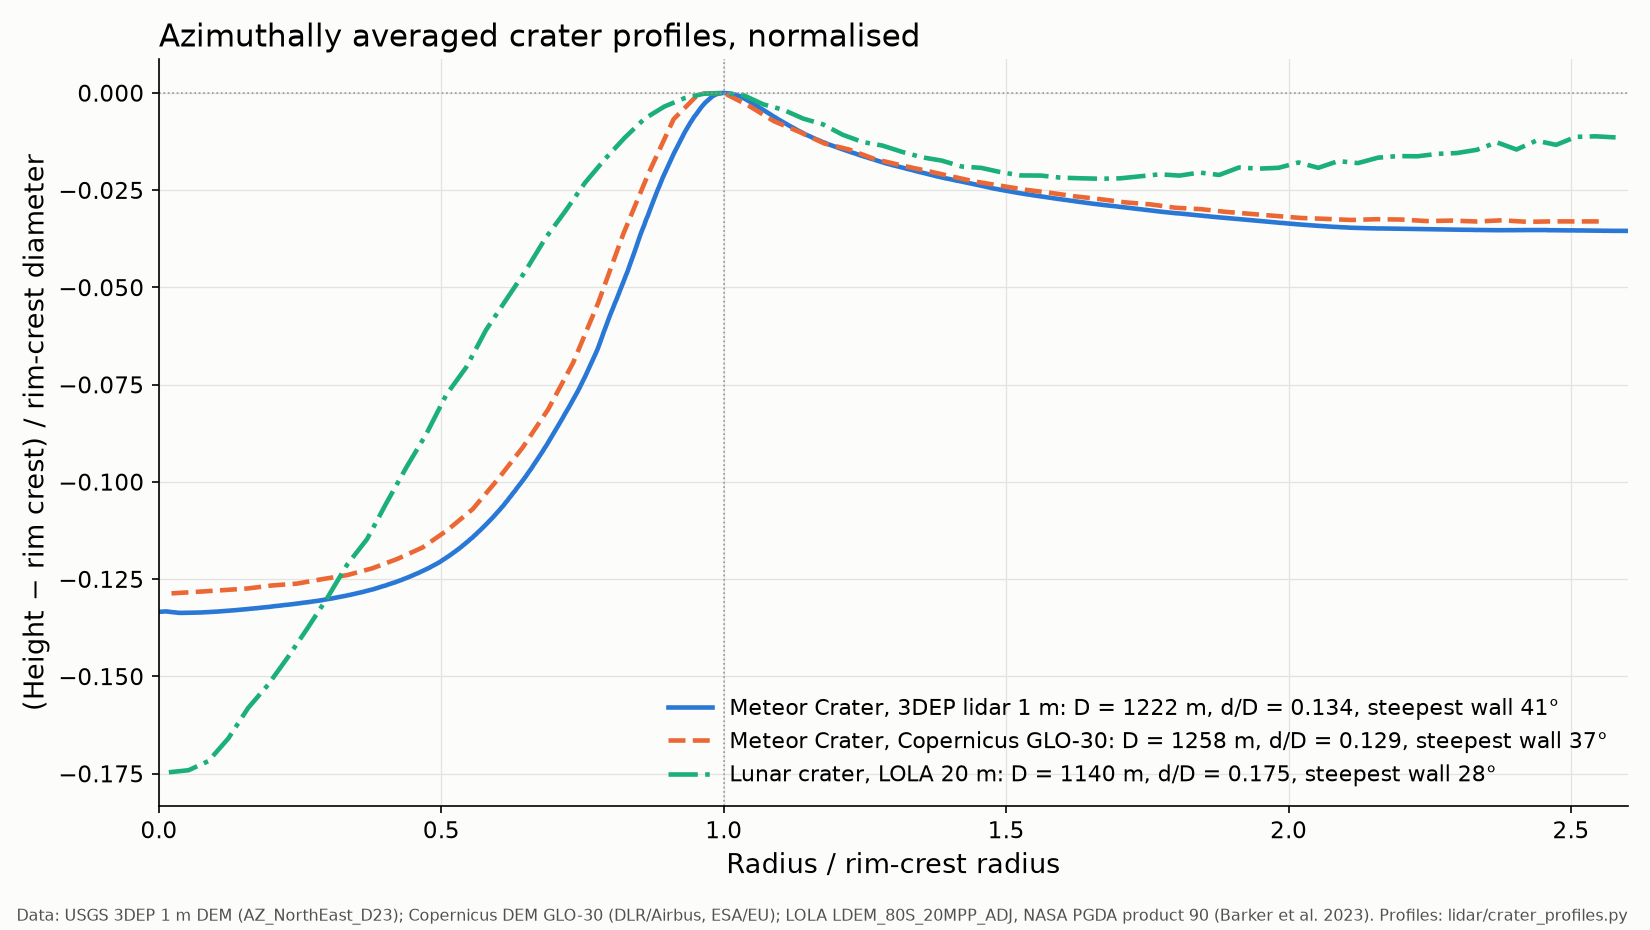
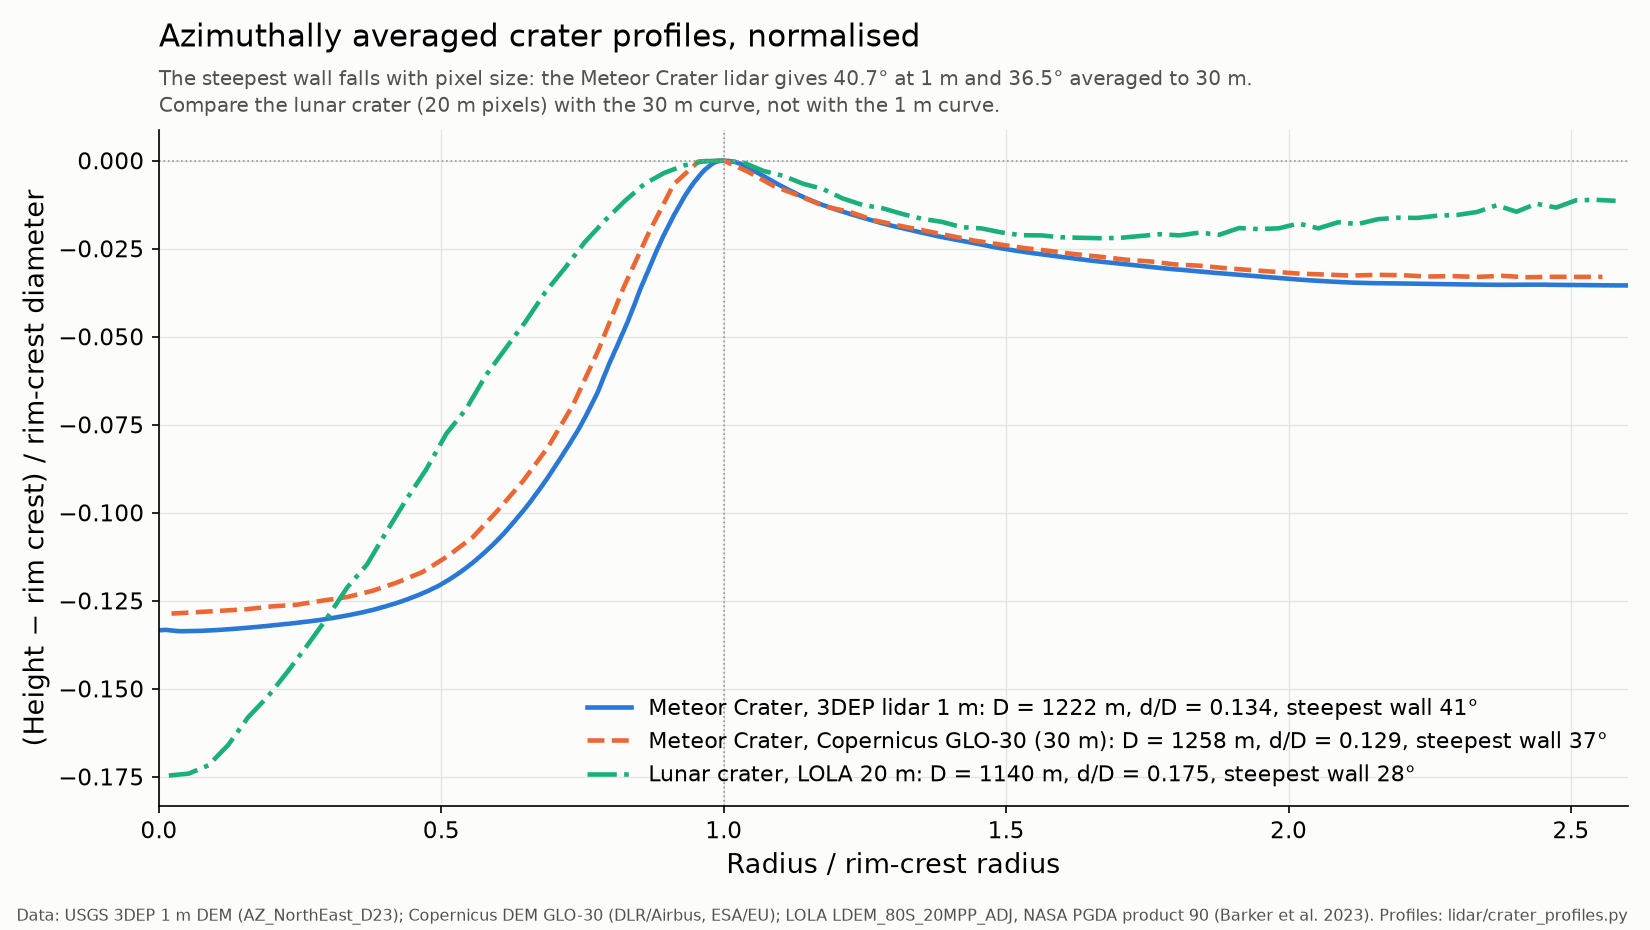
J10 follow-up: crater close-up reads nothing from scratch/, fails loudly, and the figure says which wall slopes are comparable
- lidar/crater_profiles.py took two Copernicus tiles and the 30 m lunar grid
  from scratch/ (not in git), so three of its four parts failed on a fresh
  clone while the script still exited 0. The tiles now come from the pipeline
  cache or an HTTP range read of the public file, the lunar grid from
  pipeline.io_moon.load_moon_window; a failed part gives a non-zero exit code.
- The overlay put the lunar crater's steepest wall (27.9 deg at 20 m pixels)
  next to Meteor Crater's 40.7 deg at 1 m. The figure and the JSON now say
  that the comparable value is Meteor Crater at 30 m (36.5 deg).
- Checked: the three caches rebuilt through the new code are identical to
  those of the first run, the crater search returns the same candidates, an
  HTTP read equals the local read, every measured number in the JSON is
  unchanged, the Morasko figure is byte-identical; 35 tests pass.

diff --git a/lidar/crater_profiles.py b/lidar/crater_profiles.py
@@ -16,6 +16,8 @@ Run from the repo root:
 
 Outputs: data/validation/crater_profiles.json, docs/figures/crater_profile_overlay.png,
 docs/figures/morasko_1m_vs_30m.png. Raw windows and caches go to data/raw/lidar/ (git-ignored).
+Inputs that the pipeline also uses come from its caches (data/raw/copdem30/, data/raw/moon/) and are
+fetched when missing; nothing is read from scratch/. The script exits with an error if a part fails.
 
 Sources (data):
   - USGS 3D Elevation Program (3DEP) 1 m DEM, tile USGS_1M_12_x49y388_AZ_NorthEast_D23, found with
@@ -41,6 +43,7 @@ from __future__ import annotations
 import argparse
 import json
 import math
+import os
 import sys
 import time
 import urllib.request
@@ -49,7 +52,7 @@ from pathlib import Path
 import numpy as np
 
 sys.path.insert(0, str(Path(__file__).resolve().parents[1]))
-from pipeline import paths  # noqa: E402
+from pipeline import io_earth, io_moon, paths  # noqa: E402
 
 ROOT = Path(paths.ROOT)
 RAW = Path(paths.RAW_LIDAR)
@@ -62,11 +65,16 @@ URL_TNM_QUERY = ("https://tnmaccess.nationalmap.gov/api/v1/products?datasets=Dig
                  "%20(DEM)%201%20meter&bbox=-111.04,35.015,-111.005,35.04")
 URL_LDEM = "https://pgda.gsfc.nasa.gov/data/LOLA_20mpp/LDEM_80S_20MPP_ADJ.TIF"
 URL_WCS = "https://mapy.geoportal.gov.pl/wss/service/PZGIK/NMT/GRID1/WCS/DigitalTerrainModelFormatTIFF"
-GLO30_AZ = ROOT / "scratch" / "data" / "copdem30" / "Copernicus_DSM_COG_10_N35_00_W112_00_DEM.tif"
-GLO30_PL = ROOT / "scratch" / "data" / "copdem30" / "Copernicus_DSM_COG_10_N52_00_E016_00_DEM.tif"
+GLO30_TILE_AZ, GLO30_TILE_PL = "N35W112", "N52E016"
 URL_GLO30_AZ = "https://copernicus-dem-30m.s3.amazonaws.com/Copernicus_DSM_COG_10_N35_00_W112_00_DEM/Copernicus_DSM_COG_10_N35_00_W112_00_DEM.tif"
 URL_GLO30_PL = "https://copernicus-dem-30m.s3.amazonaws.com/Copernicus_DSM_COG_10_N52_00_E016_00_DEM/Copernicus_DSM_COG_10_N52_00_E016_00_DEM.tif"
-MOON_NPY = ROOT / "scratch" / "data" / "ldem_pole_160km_30m.npy"
+MOON_SEARCH_HALF_M = 80000.0   # crater search window: +-80 km around the pole, 30 m copy (pipeline.io_moon cache)
+
+
+def glo30_source(tile, url):
+    """The Copernicus tile of the pipeline cache if it is there, else the public file read by HTTP range requests."""
+    p = io_earth.tile_path(tile, paths.RAW)
+    return p if os.path.exists(p) else "/vsicurl/" + url
 
 # First guesses only; every centre is refined from the data.
 METEOR_GUESS_LATLON = (35.027, -111.022)
@@ -361,7 +369,7 @@ def part_b(res, prof):
     if "a_meteor_3dep_1m" not in res:
         part_a(res, prof)
     a = res["a_meteor_3dep_1m"]
-    z, X, Y, dx, dy, tr, lat, lon = load_glo30_projected(GLO30_AZ, meteor_bounds_ll(), UTM12,
+    z, X, Y, dx, dy, tr, lat, lon = load_glo30_projected(glo30_source(GLO30_TILE_AZ, URL_GLO30_AZ), meteor_bounds_ll(), UTM12,
                                                          RAW / "meteor_glo30_window.npz")
     pix = math.sqrt(dx * dy)
     log(f"  GLO-30 window {z.shape}, pixel {dx:.1f} x {dy:.1f} m")
@@ -414,7 +422,7 @@ def part_b(res, prof):
     keys = ["rim_crest_diameter_m", "depth_m", "rim_height_m", "depth_to_diameter",
             "max_wall_slope_profile_deg", "wall_slope_pixel_p95_deg", "wall_slope_pixel_max_deg"]
     res["b_meteor_glo30"] = {
-        "dataset": "Copernicus DEM GLO-30 (DSM, 1 arc-second)", "url": URL_GLO30_AZ, "local_file": str(GLO30_AZ.relative_to(ROOT)),
+        "dataset": "Copernicus DEM GLO-30 (DSM, 1 arc-second)", "url": URL_GLO30_AZ,
         "crs": "EPSG:4326 lon/lat, heights EGM2008; pixel centres transformed to EPSG:26912 for distances",
         "pixel_spacing_m": [round(dx, 2), round(dy, 2)], **g}
     res["b_meteor_lidar_avg30m"] = {"dataset": "3DEP 1 m lidar block-averaged to 30 m", **l30}
@@ -430,11 +438,12 @@ MOON_CRS = "+proj=stere +lat_0=-90 +lat_ts=-90 +lon_0=0 +x_0=0 +y_0=0 +R=1737400
 MOON_LL = "+proj=longlat +R=1737400 +no_defs"
 
 
-def moon_search(npy=MOON_NPY, n_cand=2500):
-    """Search the cached 30 m polar window for clean, fresh bowl craters with D = 1-1.5 km."""
+def moon_search(n_cand=2500):
+    """Search the 30 m polar window for clean, fresh bowl craters with D = 1-1.5 km."""
     from scipy.ndimage import gaussian_filter
     from skimage.feature import peak_local_max
-    z = np.load(npy).astype(np.float64)
+    h = MOON_SEARCH_HALF_M
+    z = io_moon.load_moon_window(-h, -h, h, h, res_m=30.0, raw_dir=paths.RAW, log=log).astype(np.float64)
     H, W = z.shape
     px = 30.0
     zf = np.where(np.isfinite(z), z, np.nanmedian(z))
@@ -507,6 +516,14 @@ def part_c(res, prof):
                              if k in ("centre_xy_m", "rim_crest_diameter_m", "depth_to_diameter", "circ", "tilt_deg", "score")}
                             for c in cands[:5]],
         "read": f"windowed /vsicurl/ read with retries, {z.shape[0]} x {z.shape[1]} px", **m}
+    if "b_meteor_lidar_avg30m" in res and "a_meteor_3dep_1m" in res:
+        key = "max_wall_slope_profile_deg"
+        res["c_wall_slope_at_similar_pixel_size"] = {
+            "moon_lola_20m_deg": m[key], "meteor_lidar_avg30m_deg": res["b_meteor_lidar_avg30m"][key],
+            "meteor_glo30_deg": res["b_meteor_glo30"][key], "meteor_lidar_1m_deg": res["a_meteor_3dep_1m"][key],
+            "note": "The steepest slope of an averaged profile falls with pixel size, so the lunar crater (20 m pixels) "
+                    "is to be compared with Meteor Crater at 30 m, not at 1 m. One crater on each body: an "
+                    "illustration, not a statistic."}
     log("  " + json.dumps({k: v for k, v in m.items() if not k.startswith("_")}))
     overlay_figure(res, prof)
 
@@ -516,7 +533,7 @@ def overlay_figure(res, prof):
     matplotlib.use("Agg")
     import matplotlib.pyplot as plt
     series = [("meteor_1m", "a_meteor_3dep_1m", "Meteor Crater, 3DEP lidar 1 m", "#2a78d6", "-"),
-              ("meteor_glo30", "b_meteor_glo30", "Meteor Crater, Copernicus GLO-30", "#eb6834", "--"),
+              ("meteor_glo30", "b_meteor_glo30", "Meteor Crater, Copernicus GLO-30 (30 m)", "#eb6834", "--"),
               ("moon_20m", "c_moon_lola_20m", "Lunar crater, LOLA 20 m", "#1baf7a", "-.")]
     fig, ax = plt.subplots(figsize=(11, 6.2), dpi=150)
     fig.patch.set_facecolor("#fcfcfb")
@@ -537,7 +554,13 @@ def overlay_figure(res, prof):
     ax.set_xlim(0, 2.6)
     ax.set_xlabel("Radius / rim-crest radius", fontsize=13)
     ax.set_ylabel("(Height − rim crest) / rim-crest diameter", fontsize=13)
-    ax.set_title("Azimuthally averaged crater profiles, normalised", fontsize=15, loc="left")
+    ax.set_title("Azimuthally averaged crater profiles, normalised", fontsize=15, loc="left", pad=40)
+    if "a_meteor_3dep_1m" in res and "b_meteor_lidar_avg30m" in res:
+        key = "max_wall_slope_profile_deg"
+        ax.text(0.0, 1.015, "The steepest wall falls with pixel size: the Meteor Crater lidar gives %.1f° at 1 m and %.1f° averaged to 30 m.\n"
+                "Compare the lunar crater (20 m pixels) with the 30 m curve, not with the 1 m curve."
+                % (res["a_meteor_3dep_1m"][key], res["b_meteor_lidar_avg30m"][key]),
+                transform=ax.transAxes, fontsize=9.5, color="#52514e", va="bottom", linespacing=1.35)
     ax.tick_params(labelsize=11)
     for s in ("top", "right"):
         ax.spines[s].set_visible(False)
@@ -645,7 +668,7 @@ def part_d(res, prof):
     # GLO-30 over the same extent, reprojected onto a 30 m EPSG:2180 grid (bilinear)
     pad = 0.01
     bll = Transformer.from_crs(PL1992, "EPSG:4326", always_xy=True).transform_bounds(*b)
-    zg, trg, _ = read_window(str(GLO30_PL), (bll[0] - pad, bll[1] - pad, bll[2] + pad, bll[3] + pad),
+    zg, trg, _ = read_window(glo30_source(GLO30_TILE_PL, URL_GLO30_PL), (bll[0] - pad, bll[1] - pad, bll[2] + pad, bll[3] + pad),
                              RAW / "morasko_glo30_window.npz")
     from rasterio.transform import Affine
     n30 = int(round(2 * MORASKO_HALF / 30.0))
@@ -747,6 +770,9 @@ def main():
             res.setdefault("status", {})[p] = f"failed: {e!r}"
         save_results(res)
         save_profiles(prof)
+    failed = [p for p in parts if str(res.get("status", {}).get(p, "")).startswith("failed")]
+    if failed:
+        sys.exit("crater_profiles: part(s) %s failed, see the log lines above" % ", ".join(failed))
 
 
 if __name__ == "__main__":

diff --git a/data/README.md b/data/README.md
@@ -25,7 +25,7 @@ data/
 
 | File | What it is | Produced by | Inputs |
 |---|---|---|---|
-| `run_log.csv` | log of the pipeline stages: command, start time, seconds, exit code, commit, 22 rows, 2.9 kB | `python -m pipeline.run (one row appended per stage run)` |  |
+| `run_log.csv` | log of the pipeline stages: command, start time, seconds, exit code, commit, 24 rows, 3.2 kB | `python -m pipeline.run (one row appended per stage run)` |  |
 | `earth/cells/known.parquet` | Earth cells of the tiles holding known analog sites, 71244 rows, 4.0 MB | `python -m pipeline.earth_scan (job J3, tiles of the known analog sites)` | copernicus_dem, esa_worldcover, data/reference/known_analogs.csv |
 | `earth/cells/pilot.parquet` | Earth cells of the 37 pilot tiles with features and land cover, 76574 rows, 4.6 MB | `python -m pipeline.earth_scan --tiles data/reference/pilot_tiles.csv (job J3, milestone 1)` | copernicus_dem, esa_worldcover |
 | `earth/cells/scan_s*of*.parquet` | Earth cells of one scan shard (valid, water < 0.5, bare >= 0.5 or no land cover) | `python -m pipeline.earth_scan --shard i/20 on the cloud runner (docs/HANDOFF.md, section 8)` | copernicus_dem, esa_worldcover, data/earth/tiles/tiles_scanned.csv |
@@ -37,14 +37,14 @@ data/
 | `moon/reference.json` | lunar reference populations per region: mean, covariance, sorted distances, medians, 387.4 kB | `python -m pipeline.moon_reference` | pgda90_lola_20m, usgs_planetary_names, lunar_site_literature |
 | `moon/regions.geojson` | region footprints in lunar latitude / east longitude, 8 rows, 33.9 kB | `python -m pipeline.moon_reference` | pgda90_lola_20m, usgs_planetary_names, lunar_site_literature |
 | `moon/hillshade/*.png` | grey hillshade of one lunar region window | `python -m pipeline.moon_reference` | pgda90_lola_20m |
-| `moon/instruments/diviner_pcp_regions.json` | Diviner polar temperatures per lunar region, 10.9 kB | `python -m pipeline.lunar_products --extract diviner (job J15)` | diviner_pcp, data/moon/reference.json |
+| `moon/instruments/diviner_pcp_regions.json` | Diviner polar temperatures per lunar region, 10.7 kB | `python -m pipeline.lunar_products --extract diviner (job J15)` | diviner_pcp, data/moon/reference.json |
 | `moon/instruments/diviner_regions.json` | Diviner temperatures and ice-stability depths per lunar region, 12.4 kB | `python validation/pds_products.py --part diviner` | diviner_prp, data/moon/reference.json, data/sites/nasa_context_summary.json |
 | `moon/instruments/lamp*` | LAMP Lyman-alpha albedo per lunar region | `python -m pipeline.lunar_products --extract lamp (job J15)` | lamp, data/moon/reference.json |
 | `moon/instruments/lend*` | LEND neutron counts per lunar region | `python -m pipeline.lunar_products --extract lend (job J15)` | lend, data/moon/reference.json |
-| `moon/instruments/lola_regions.json` | permanent shadow, sun and Earth visibility per lunar region, 18.8 kB | `python -m pipeline.lunar_products --extract lola (job J15)` | pgda90_lola_20m, pgda69_illumination, data/moon/reference.json |
+| `moon/instruments/lola_regions.json` | permanent shadow, sun and Earth visibility per lunar region, 18.2 kB | `python -m pipeline.lunar_products --extract lola (job J15)` | pgda90_lola_20m, pgda69_illumination, data/moon/reference.json |
 | `moon/instruments/lroc*` | LROC images per lunar region | `python -m pipeline.lunar_products --extract lroc (job J15)` | lroc, data/moon/reference.json |
 | `moon/instruments/minirf*` | Mini-RF radar values per lunar region | `python -m pipeline.lunar_products --extract minirf (job J15)` | minirf, data/moon/reference.json |
-| `moon/instruments/registry.json` | registry of the LRO instrument products, their URLs and citations, 21.9 kB | `python -m pipeline.lunar_products --list (job J15)` | pgda90_lola_20m, pgda69_illumination, diviner_pcp, minirf, lend, lamp, lroc |
+| `moon/instruments/registry.json` | registry of the LRO instrument products, their URLs and citations, 21.6 kB | `python -m pipeline.lunar_products --list (job J15)` | pgda90_lola_20m, pgda69_illumination, diviner_pcp, minirf, lend, lamp, lroc |
 | `moon/instruments/diviner/*` | map of one Diviner layer for one lunar region | `python -m pipeline.lunar_products --extract diviner (job J15)` | diviner_pcp |
 | `moon/instruments/lola/*` | map of one LOLA-derived layer for one lunar region | `python -m pipeline.lunar_products --extract lola (job J15)` | pgda90_lola_20m, pgda69_illumination |
 | `reference/known_analogs.csv` | known Moon and Mars analog sites: name, lat, lon, radius_km, type, source_url, verified, 77 rows, 10.1 kB | `hand-curated by jobs J8 and J9 (agent web research, no script)` | analog_literature, wikipedia, osm |
@@ -64,7 +64,7 @@ data/
 | `sites/images/*.jpg` | MODIS or VIIRS true-colour image around one site (NASA imagery, unmodified) | `python -m pipeline.nasa_context --top 150 --images 60` | worldview_gibs |
 | `sites/images/index.csv` | bbox, date, layer and cloud share of every site image, 60 rows, 10.2 kB | `python -m pipeline.nasa_context --top 150 --images 60` | worldview_gibs |
 | `validation/aw3d30_comparison.json` | terrain feature agreement across Copernicus, NASADEM and optical AW3D30 on ten reference tiles, 79.5 kB | `python validation/nasadem_vs_copdem.py --aw3d30-comparison (job J29)` | jaxa_aw3d30, data/earth/cells_nasadem/*.parquet, data/earth/cells/*.parquet |
-| `validation/crater_profiles.json` | crater measurements: Earth lidar, 30 m DEM and the lunar DEM, 11.9 kB | `python lidar/crater_profiles.py --part all` | usgs_3dep, usgs_tnm_api, copernicus_dem, pgda90_lola_20m, gugik_nmt |
+| `validation/crater_profiles.json` | crater measurements: Earth lidar, 30 m DEM and the lunar DEM, 12.3 kB | `python lidar/crater_profiles.py --part all` | usgs_3dep, usgs_tnm_api, copernicus_dem, pgda90_lola_20m, gugik_nmt |
 | `validation/effectiveness.json` | known analog tile recovery, negative controls, ablation, stability, 528.4 kB | `python validation/effectiveness.py all` | data/earth/cells/*.parquet, data/earth/tiles/tile_summary.csv, data/reference/known_analogs.csv, copernicus_dem, esa_worldcover, pgda90_lola_20m |
 | `validation/enrichment.json` | enrichment of lunar-like terrain around known analog sites, 9.5 kB | `python validation/enrichment.py (after python -m pipeline.sites)` | data/raw/earth_scored_full.parquet, data/reference/known_analogs.csv |
 | `validation/icesat2.json` | ICESat-2 along-track slopes against grid slopes and the Moon, 16.9 kB | `python validation/icesat2_profiles.py (job J21)` | icesat2_atl06, sliderule, pgda70_lola_slopes, data/sites/ranking.csv, data/moon/reference.json |
@@ -170,6 +170,24 @@ Tests: `python -m pytest tests -q`.
 
 Git-ignored. One folder per source; every script recreates what it needs, so the folder is safe to delete (rebuilding needs the network, about 0.3 MB/s at the venue). Folders present now:
 
+- `raw/cells/`: per-tile Earth feature tables and scan logs
+- `raw/cloud/`: artifacts from the cloud runner
+- `raw/cloud_check/`: test artifacts of the cloud runner
+- `raw/copdem30/`: Copernicus GLO-30 tiles
+- `raw/icesat2/`: ICESat-2 subsets (job J14)
+- `raw/j16_before/`: copies taken before the layout-v2 migration (regression check)
+- `raw/j4_check/`: intermediate checks of job J4
+- `raw/lidar/`: USGS 3DEP and GUGiK windows
+- `raw/lro/`: other LRO instrument products (job J15)
+- `raw/modis_igbp/`
+- `raw/moon/`: LOLA DEM windows (NASA PGDA)
+- `raw/nasa_context/`: NASA POWER and Worldview responses
+- `raw/nasadem/`
 - `raw/naturalearth/`: country outlines
+- `raw/partner_context/`
+- `raw/pds/`: PDS Geosciences files (LOLA GDR, Diviner PRP columns)
+- `raw/run_logs/`
+- `raw/tiles_cache/`: tile list, WorldCover fractions and coarse slopes of the tile selection
+- `raw/validation/`: slow intermediate tables of the effectiveness tests
 
 Written with SI assistance (Claude Code).

diff --git a/docs/HANDOFF.md b/docs/HANDOFF.md
@@ -159,7 +159,7 @@ into `docs/pitch/SUBMISSION-FIELDS.md`. The full list is issue 11. Confirm on an
 - Gradient coherence adds nothing; Hurst exponent and temperature cannot be scored.
 - **Lunar target regions (J2), 30 x 30 km windows, 225 cells each, coordinates from the USGS gazetteer or the cited papers.** Median slope at 240 m and share of pixels at or below 8 deg: polar window 5.1 deg / 39%; Connecting Ridge 8.6 deg / 7%; Peak near Shackleton 5.8 deg / 28%; Nobile Rim 2 6.5 deg / 22%; Malapert massif 9.7 deg / 1%; Mons Mouton 3.7 deg / 66%; de Gerlache 7.5 deg / 11%; Haworth 8.4 deg / 3%. The named regions are much steeper than the polar average, so the choice of target changes which Earth sites match. Three starting coordinates in the task table were wrong and were corrected from the gazetteer (Haworth, de Gerlache, Malapert).
 - **First ranking (J4, 37 pilot tiles, 81 sites).** Ranking key: similarity-weighted area = sum of `p_all` over the site's cells x cell area (a plain median put 4-cell patches on top). Top: Mauna Loa, Hawaii (615 km2; Hawaii is a known analog region, not flagged until the region rows land), Harrat Khaybar lava field, Saudi Arabia (94 km2), Kilauea (known), Kunlun, China, Gobi-Altai, Mongolia, Askja (known), Haughton (known), Lut desert, Iran, Ellesmere Island, Canada. Novelty of the non-flagged ones is being checked in J9; until then call them candidates, not discoveries.
-- **Lidar close-up (J10).** Meteor Crater on 1 m lidar: rim-crest diameter 1222 m, depth 163 m, d/D 0.134, steepest profile wall 41 deg. The 30 m model keeps the size and depth (1258 m, 162 m) and loses the steep walls (37 deg; per-pixel P95 42 against 48 deg). Lunar crater from the LOLA 20 m DEM: 1140 m, d/D 0.175, wall 28 deg. Morasko on 1 m lidar: largest crater 101 m across, at least 5.6 m deep, not resolved at 30 m.
+- **Lidar close-up (J10).** Meteor Crater on 1 m lidar: rim-crest diameter 1222 m, depth 163 m, d/D 0.134, steepest profile wall 41 deg. The 30 m model keeps the size and depth (1258 m, 162 m) and loses the steep walls (37 deg; per-pixel P95 42 against 48 deg). Lunar crater from the LOLA 20 m DEM: 1140 m, d/D 0.175, wall 28 deg (20 m pixels: compare it with Meteor Crater at 30 m, 37 deg, not with the 1 m value; one crater on each body, an illustration). Morasko on 1 m lidar: largest crater 101 m across, at least 5.6 m deep, not resolved at 30 m.
 - **Validation T1 (J5), 40 x 40 km window at the pole, 640,000 pixels:** our implementation of NASA's plane-fit slope at a 200 m baseline matches NASA's map `LDRM_80S_50MPP_ADJ_SLP_200M.TIF` with a median absolute difference of 0.042 deg on the native 20 m DEM and 0.064 deg on a 30 m DEM (r = 0.9999). Roughness comes out at 0.84 of NASA's (r = 0.95), because NASA takes residuals from individual laser spots and we only have the gridded DEM.
 - **What T1 does and does not cover:** it validates our reading of the data and a plane-fit estimator written for the test. The features used for scoring (`s240`, `s570`: two-point slopes) are a different quantity; the plane-fit slope is 1.56 times the two-point slope at about 200 m in this window. For the two-point slopes the check is the comparison with NASA's along-track product (PGDA 70): ratio 1.01-1.03 along the north-south direction and 0.91 with both directions pooled, as the pipeline does. The PGDA 70 reference is coarse at the pole (15 latitude rows in the window), so treat that ratio as indicative.
 - Sample-grid registration matters: shifting the 50 m sample grid by 25 m raises the slope difference from 0.042 to 0.304 deg.

diff --git a/lidar/README.md b/lidar/README.md
@@ -2,7 +2,8 @@
 
 What: `crater_profiles.py` measures rim-crest diameter, depth, rim height and wall slope from azimuthally averaged radial profiles of Meteor Crater (USGS 3DEP 1 m lidar vs Copernicus GLO-30 vs lidar averaged to 30 m), an automatically selected fresh 1.1 km lunar crater (LOLA 20 m south-pole DEM) and the Morasko craters near Poznan (GUGiK NMT 1 m vs GLO-30).
 Run (repo root): `.venv/Scripts/python.exe lidar/crater_profiles.py --part all` (or `--part a|b|c|d`; `b` needs `a`, the overlay figure is drawn by `c`).
-Inputs: remote windows are read with GDAL `/vsicurl/` (3DEP, LOLA) or WCS GetCoverage (GUGiK) and cached in `data/raw/lidar/` (git-ignored); GLO-30 tiles and the 30 m lunar cache are expected in `scratch/data/`.
+Inputs: remote windows are read with GDAL `/vsicurl/` (3DEP, LOLA) or WCS GetCoverage (GUGiK) and cached in `data/raw/lidar/` (git-ignored); the two GLO-30 tiles come from the pipeline cache `data/raw/copdem30/` or, when missing, from an HTTP range read of the public file; the 30 m lunar grid for the crater search comes from `pipeline.io_moon.load_moon_window` (cache in `data/raw/moon/`, downloaded when missing). Nothing is read from `scratch/`; the script exits with an error if a part fails.
+Reading the overlay: the steepest wall of a profile falls with pixel size (Meteor Crater lidar 40.7 deg at 1 m, 36.5 deg averaged to 30 m), so the lunar crater (20 m pixels, 27.9 deg) is compared with the 30 m curve; the JSON holds this under `c_wall_slope_at_similar_pixel_size`. One crater on each body: an illustration, not a statistic.
 Outputs: `data/validation/crater_profiles.json` (every number with its method and data URL), `docs/figures/crater_profile_overlay.png`, `docs/figures/morasko_1m_vs_30m.png`.
 Sources: USGS 3DEP 1 m DEM https://prd-tnm.s3.amazonaws.com/StagedProducts/Elevation/1m/Projects/AZ_NorthEast_D23/TIFF/USGS_1M_12_x49y388_AZ_NorthEast_D23.tif (public domain);
 Copernicus DEM GLO-30 https://registry.opendata.aws/copernicus-dem/ (Copernicus DEM licence, (c) DLR e.V. 2010-2014 and (c) Airbus Defence and Space GmbH 2014-2018, provided under COPERNICUS by the EU and ESA);
